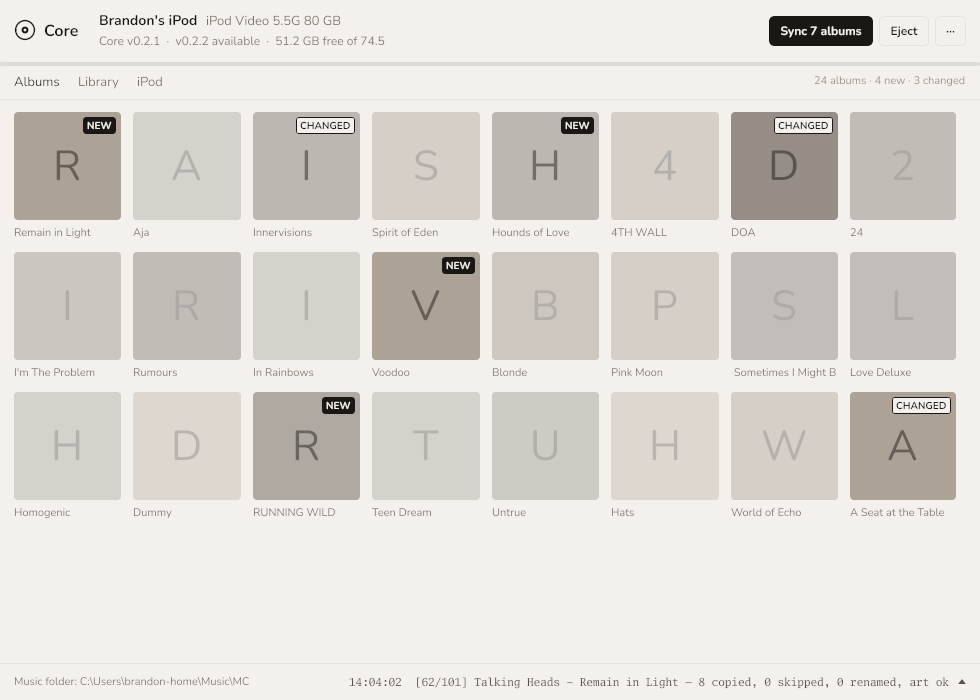
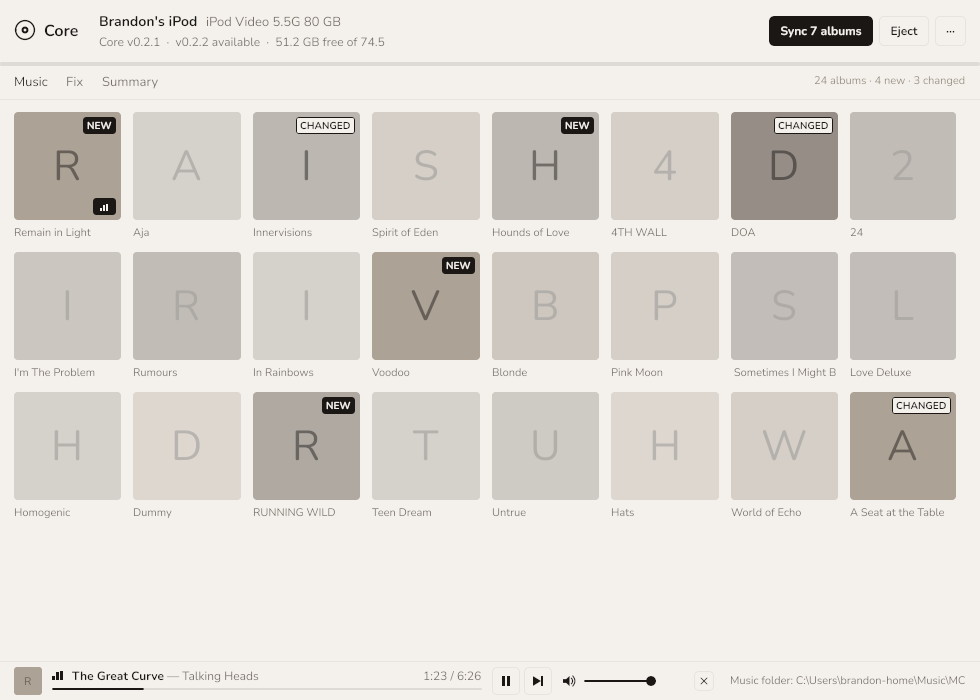
docs: the app's screenshots are the app as it is tonight
The three desktop-app stills in docs/screens were shot before the album
sheet, the player, the volume and the tab rename. They are re-shot from this
head at 980x700: the Linen and Onyx hero shots now show the Music grid with a
track playing in the footer, two more join them — the album open with its
tracklist, and the Fix tab with its preview — and the Summary shot is shot
from the tab under its new name. The guide shows all five; docs/screens/README
carries the five commands. The words in the guide and the READMEs were kept
current slice by slice and needed nothing tonight.

diff --git a/docs/screens/README.md b/docs/screens/README.md
@@ -169,15 +169,17 @@ on from — and the README's readers cannot tell.
 From core/cli, on a clean tree:
 
   go build -tags novulkan -o /tmp/core-app ./cmd/core-app
-  /tmp/core-app --screenshot ../../docs/screens/core_app.png      --state demo --theme linen --size 980x700 --no-detect
-  /tmp/core-app --screenshot ../../docs/screens/core_app_onyx.png --state demo --theme onyx  --size 980x700 --no-detect
-  /tmp/core-app --screenshot ../../docs/screens/core_app_ipod.png --state demo --tab details --theme linen --size 980x700 --no-detect
+  /tmp/core-app --screenshot ../../docs/screens/core_app.png       --state playing --theme linen --size 980x700 --no-detect
+  /tmp/core-app --screenshot ../../docs/screens/core_app_onyx.png  --state playing --theme onyx  --size 980x700 --no-detect
+  /tmp/core-app --screenshot ../../docs/screens/core_app_album.png --state album   --theme linen --size 980x700 --no-detect
+  /tmp/core-app --screenshot ../../docs/screens/core_app_fix.png   --state library --theme linen --size 980x700 --no-detect
+  /tmp/core-app --screenshot ../../docs/screens/core_app_ipod.png  --state demo --tab summary --theme linen --size 980x700 --no-detect
 
 (under `(ulimit -v 6000000; timeout 240 …)` — an earlier layout bug allocated 40 GB per frame.)
 -->
 
-Three files here are **not** drawn by `render.py`: `core_app.png`, `core_app_onyx.png` and
-`core_app_ipod.png` are the desktop app, rendered by `core-app --screenshot` itself through Gio's
+Five files here are **not** drawn by `render.py`: `core_app.png`, `core_app_onyx.png`,
+`core_app_album.png`, `core_app_fix.png` and `core_app_ipod.png` are the desktop app, rendered by `core-app --screenshot` itself through Gio's
 headless GPU path — the same code that draws the window, from the canned demo state, at the
 window's default size (980×700). The commands are in the comment above. They show the app, not
 the iPod, so the firmware-is-the-source-of-truth rule does not apply to them; the rule they follow

diff --git a/docs/USER_GUIDE.md b/docs/USER_GUIDE.md
@@ -456,6 +456,8 @@ press the sync button on it; when there is nothing to copy it says *Everything i
 
 <p align="center"><img src="screens/core_app.png" alt="the core desktop app, Linen" width="640"></p>
 <p align="center"><img src="screens/core_app_onyx.png" alt="the core desktop app, Onyx" width="640"></p>
+<p align="center"><img src="screens/core_app_album.png" alt="an album open: cover, facts and tracklist, with the player below" width="640"></p>
+<p align="center"><img src="screens/core_app_fix.png" alt="the Fix tab: what is wrong with the music folder, and the preview of the fix" width="640"></p>
 <p align="center"><img src="screens/core_app_ipod.png" alt="the Summary tab" width="640"></p>
 
 **Connect.** Put the iPod in disk mode — Settings, Disk Mode on the device, or hold Select + Play
